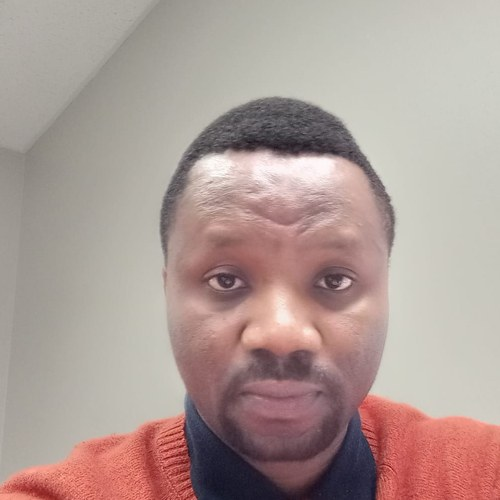
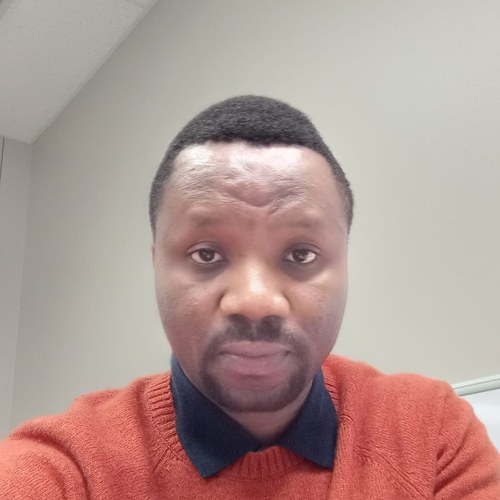
Add files via upload

diff --git a/index.html b/index.html
@@ -149,7 +149,7 @@
   .hero-text{flex:1; min-width:0;}
   .hero-photo{flex:none;}
   .hero-photo img{
-    width:150px; height:150px; border-radius:50%; object-fit:cover;
+    width:150px; height:150px; border-radius:50%; object-fit:cover; object-position:center center;
     border:3px solid var(--accent); box-shadow:0 0 0 5px rgba(248,106,56,0.15);
   }
   .eyebrow{
@@ -297,6 +297,12 @@
   .testi-attr{margin-top:18px; display:flex; align-items:center; gap:4px; flex-wrap:wrap;}
   .testi-name{font-size:14px; font-weight:700;}
   .testi-role{font-size:12.5px; color:var(--ink-soft); margin-top:2px;}
+  .testi-source{
+    margin-top:16px; padding-top:14px; border-top:1px dashed var(--line);
+    font-size:12px; color:var(--ink-soft); font-family:'IBM Plex Mono', monospace;
+  }
+  .testi-source a{color:var(--green); text-decoration:none; border-bottom:1px solid var(--green);}
+  .testi-source a:hover{color:var(--accent);}
 
   /* ---------- Footer / Contact ---------- */
   footer{
@@ -766,6 +772,10 @@
           <div class="testi-name">Engr. Oluwatobi Daramola, MNSE, R.Eng</div>
           <div class="testi-role">Electrical | Software Engineer | Machine Learning Enthusiast — worked with Ovis on the same team</div>
         </div>
+      </div>
+      <div class="testi-source">
+        <a href="https://www.linkedin.com/in/ovis-irefu-1a438166/details/recommendations/" target="_blank" rel="noopener">Verify on LinkedIn ↗</a>
+        <span>· LinkedIn Recommendation, Nov 10, 2023</span>
       </div>
     </div>
   </div>

diff --git a/index_1.html b/index_1.html
@@ -149,7 +149,7 @@
   .hero-text{flex:1; min-width:0;}
   .hero-photo{flex:none;}
   .hero-photo img{
-    width:150px; height:150px; border-radius:50%; object-fit:cover;
+    width:150px; height:150px; border-radius:50%; object-fit:cover; object-position:center center;
     border:3px solid var(--accent); box-shadow:0 0 0 5px rgba(248,106,56,0.15);
   }
   .eyebrow{
@@ -297,6 +297,12 @@
   .testi-attr{margin-top:18px; display:flex; align-items:center; gap:4px; flex-wrap:wrap;}
   .testi-name{font-size:14px; font-weight:700;}
   .testi-role{font-size:12.5px; color:var(--ink-soft); margin-top:2px;}
+  .testi-source{
+    margin-top:16px; padding-top:14px; border-top:1px dashed var(--line);
+    font-size:12px; color:var(--ink-soft); font-family:'IBM Plex Mono', monospace;
+  }
+  .testi-source a{color:var(--green); text-decoration:none; border-bottom:1px solid var(--green);}
+  .testi-source a:hover{color:var(--accent);}
 
   /* ---------- Footer / Contact ---------- */
   footer{
@@ -766,6 +772,10 @@
           <div class="testi-name">Engr. Oluwatobi Daramola, MNSE, R.Eng</div>
           <div class="testi-role">Electrical | Software Engineer | Machine Learning Enthusiast — worked with Ovis on the same team</div>
         </div>
+      </div>
+      <div class="testi-source">
+        <a href="https://www.linkedin.com/in/ovis-irefu-1a438166/details/recommendations/" target="_blank" rel="noopener">Verify on LinkedIn ↗</a>
+        <span>· LinkedIn Recommendation, Nov 10, 2023</span>
       </div>
     </div>
   </div>
